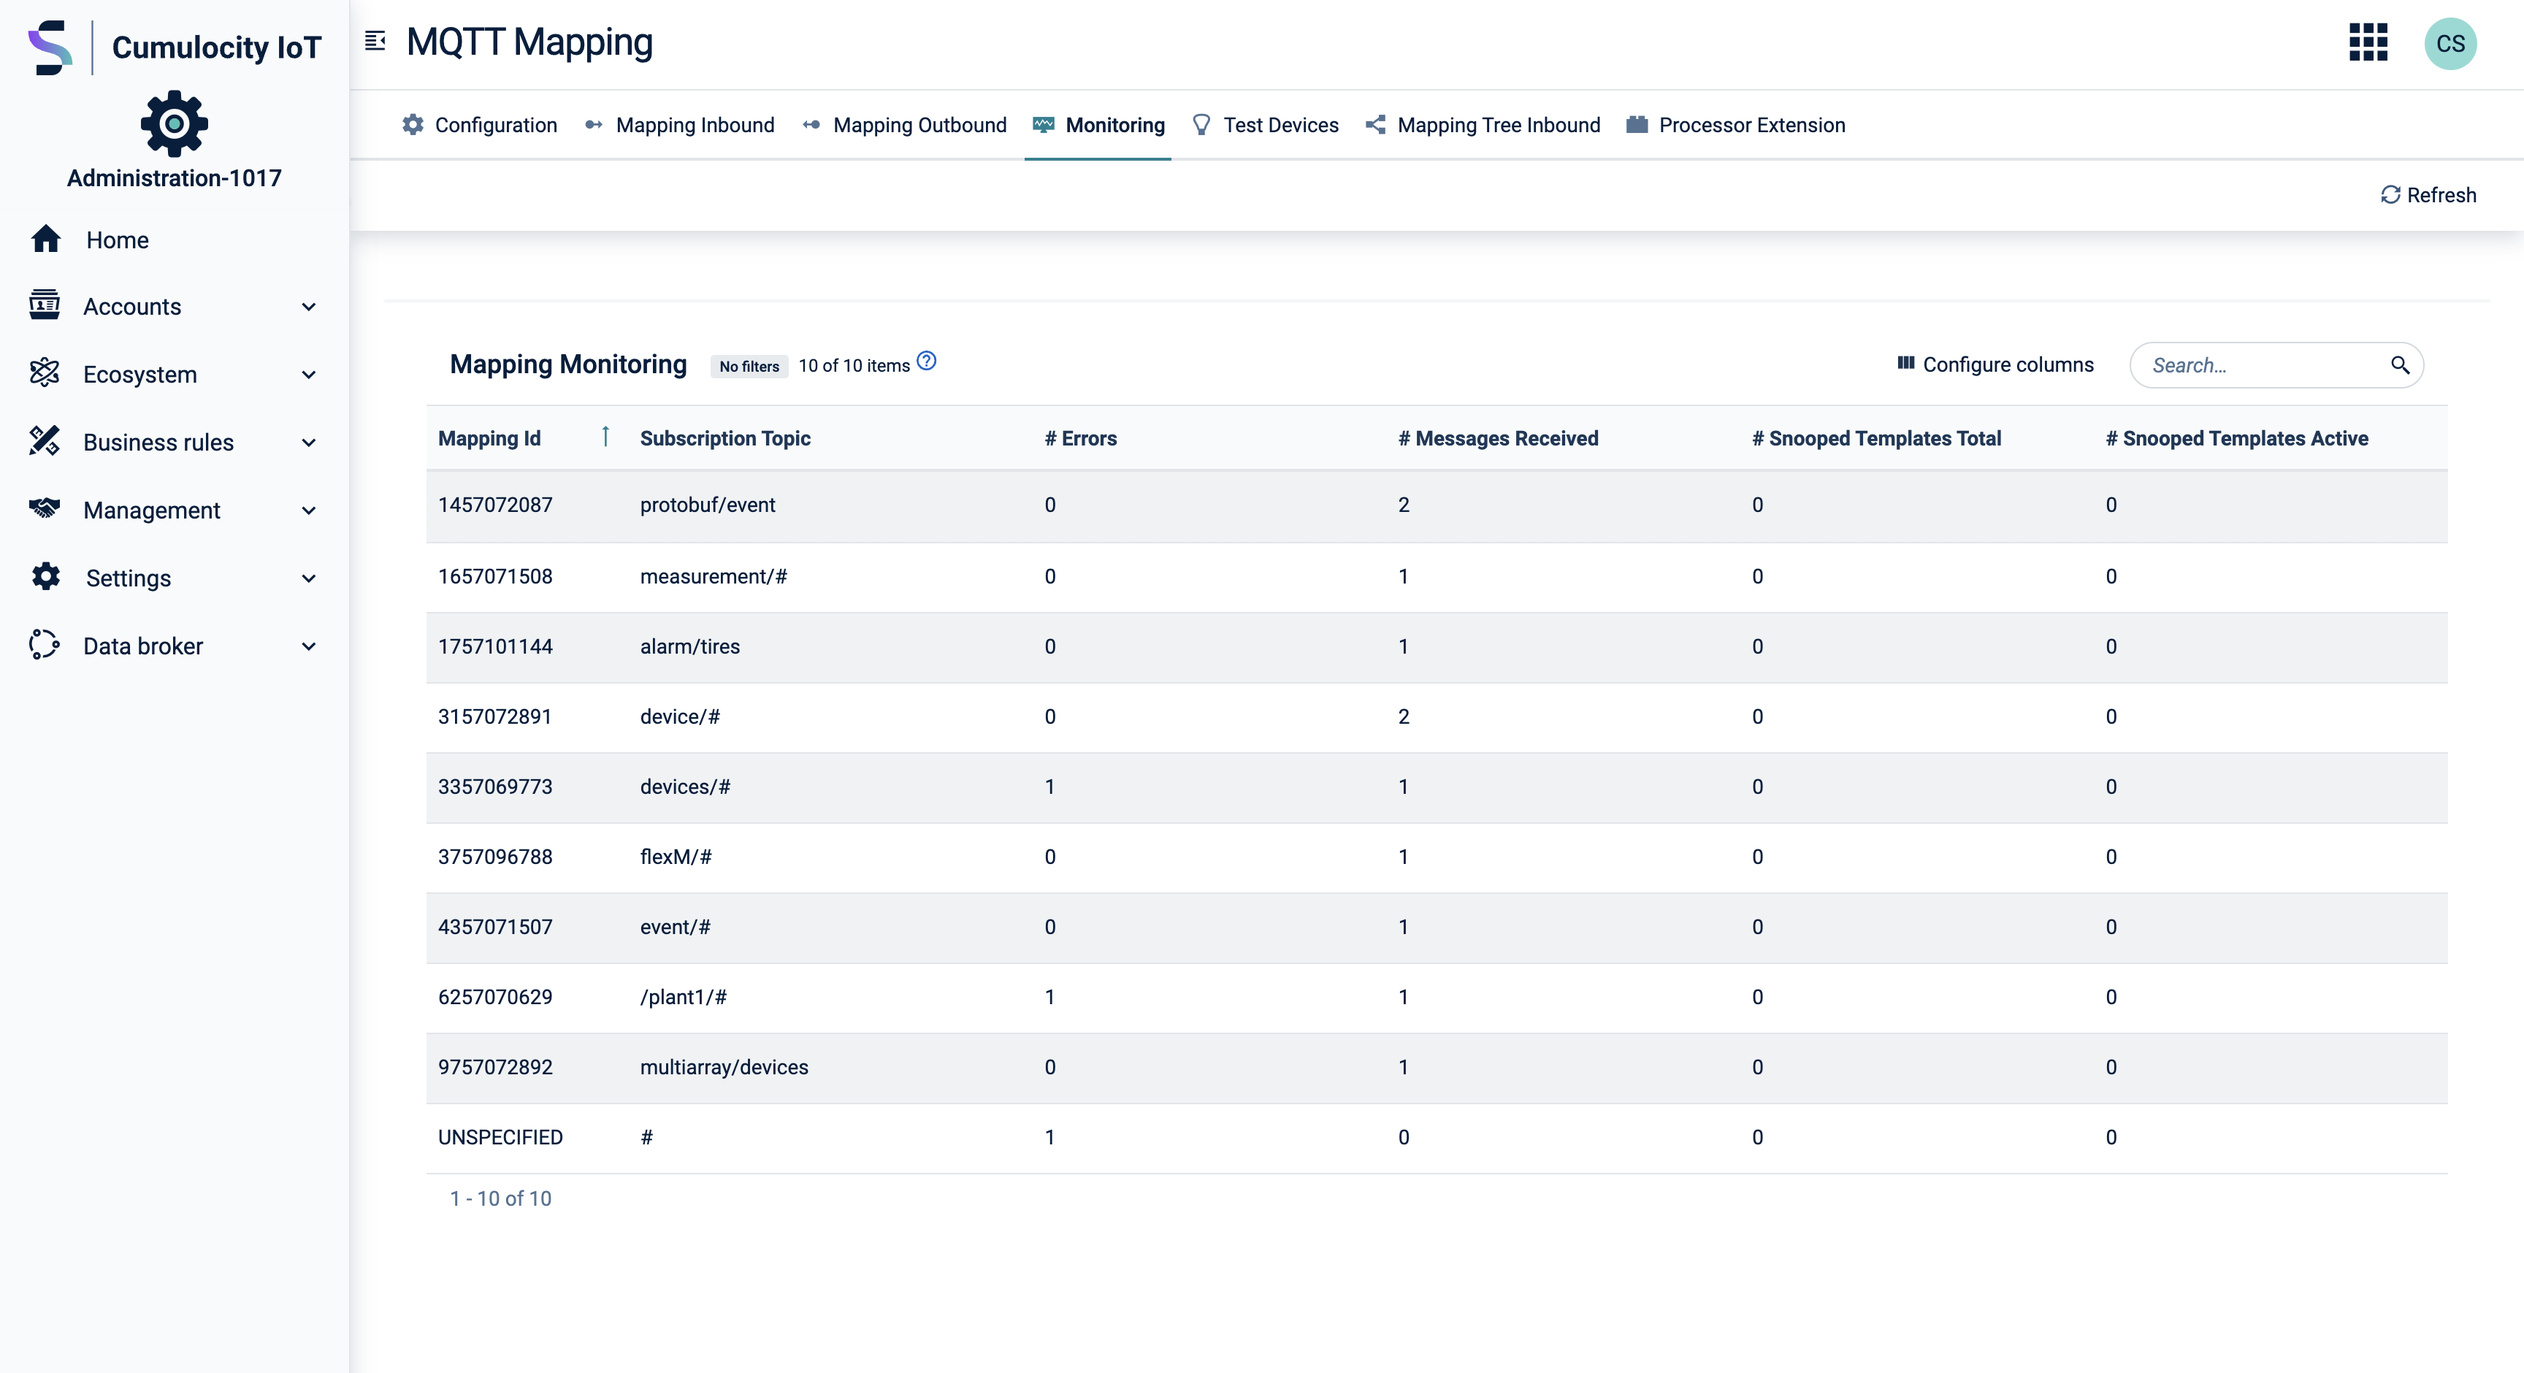
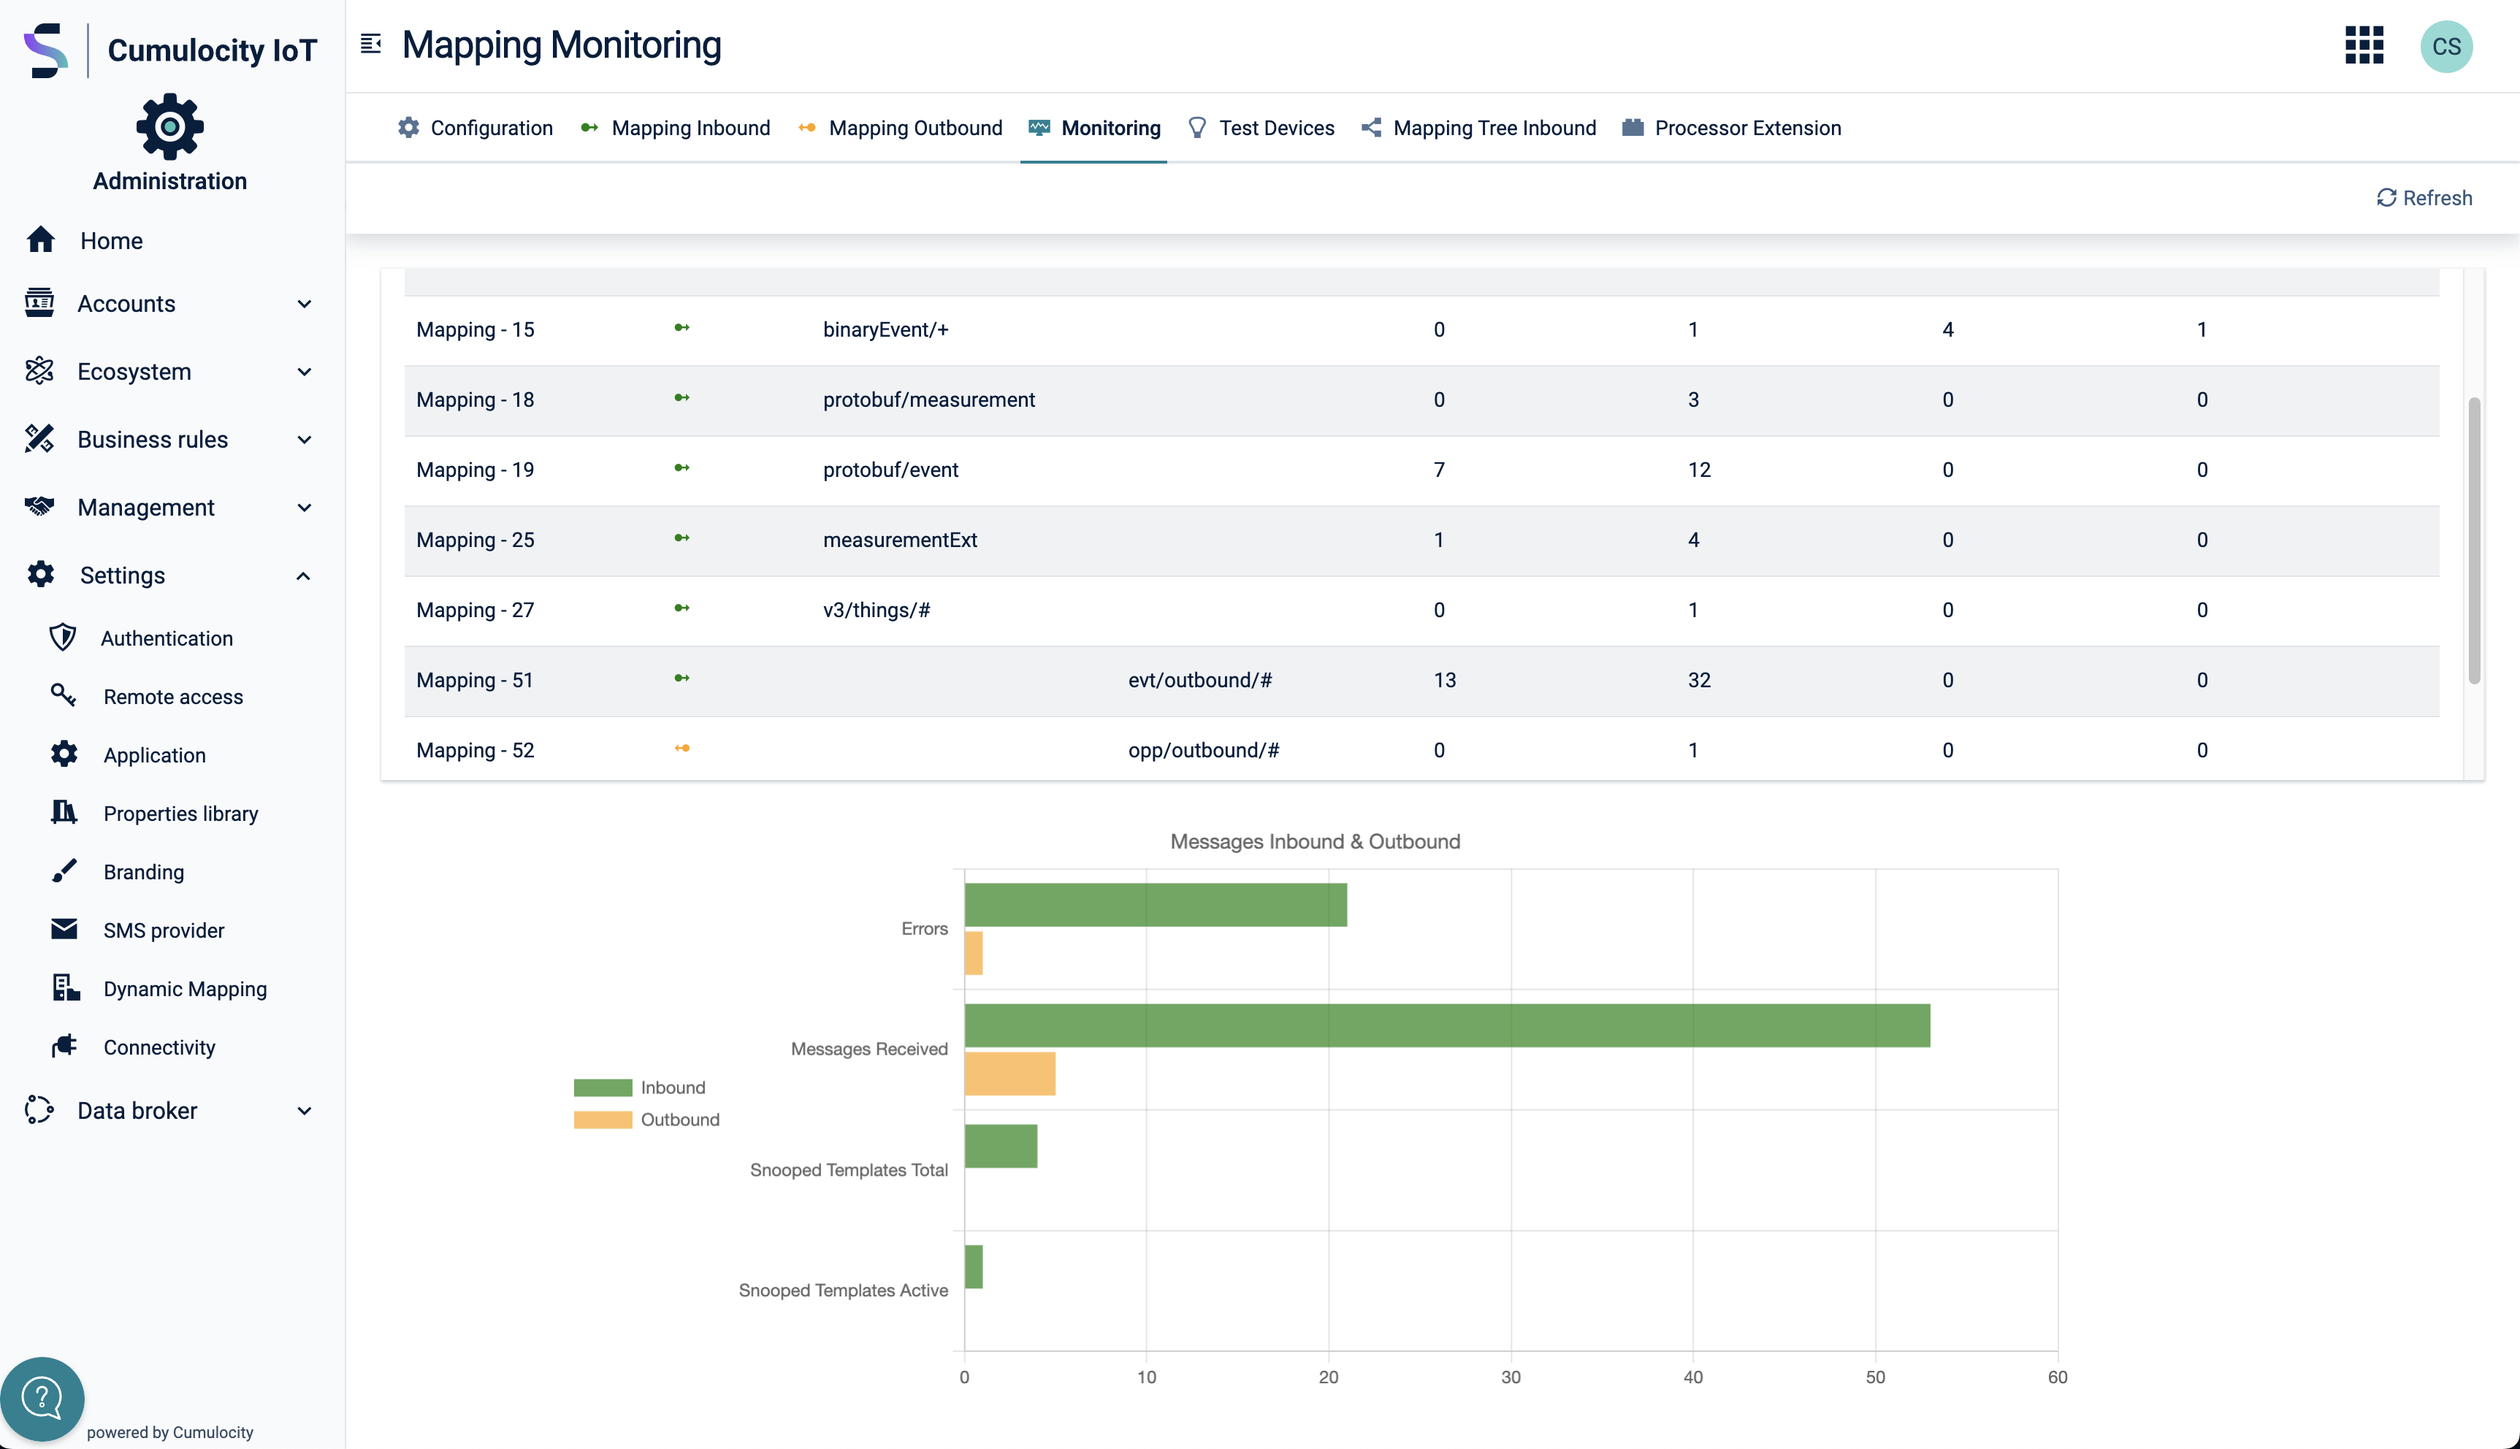
update sizing of chart

diff --git a/dynamic-mapping-ui/src/monitoring/grid/monitoring.component.html b/dynamic-mapping-ui/src/monitoring/grid/monitoring.component.html
@@ -43,7 +43,7 @@
   </div>
 </div>
 <div class="row">
-  <div class="col-lg-8 col-lg-offset-2">
+  <div class="col-lg-10 col-lg-offset-1">
     <d11r-monitoring-chart
       [mappingStatus]="mappingStatus$"
     ></d11r-monitoring-chart>

diff --git a/dynamic-mapping-ui/src/monitoring/chart/chart.component.ts b/dynamic-mapping-ui/src/monitoring/chart/chart.component.ts
@@ -117,6 +117,7 @@ export class ChartComponent implements OnInit {
       data: data,
       options: {
         responsive: true,
+        maintainAspectRatio: false,
         layout: {
           padding: {
             left: 0,

diff --git a/dynamic-mapping-ui/src/monitoring/chart/chart.component.css b/dynamic-mapping-ui/src/monitoring/chart/chart.component.css
@@ -3,5 +3,5 @@
     height: 400px; */
     position: relative; 
     height:40vh; 
-    width:90vw
+    width:60vw
 }
